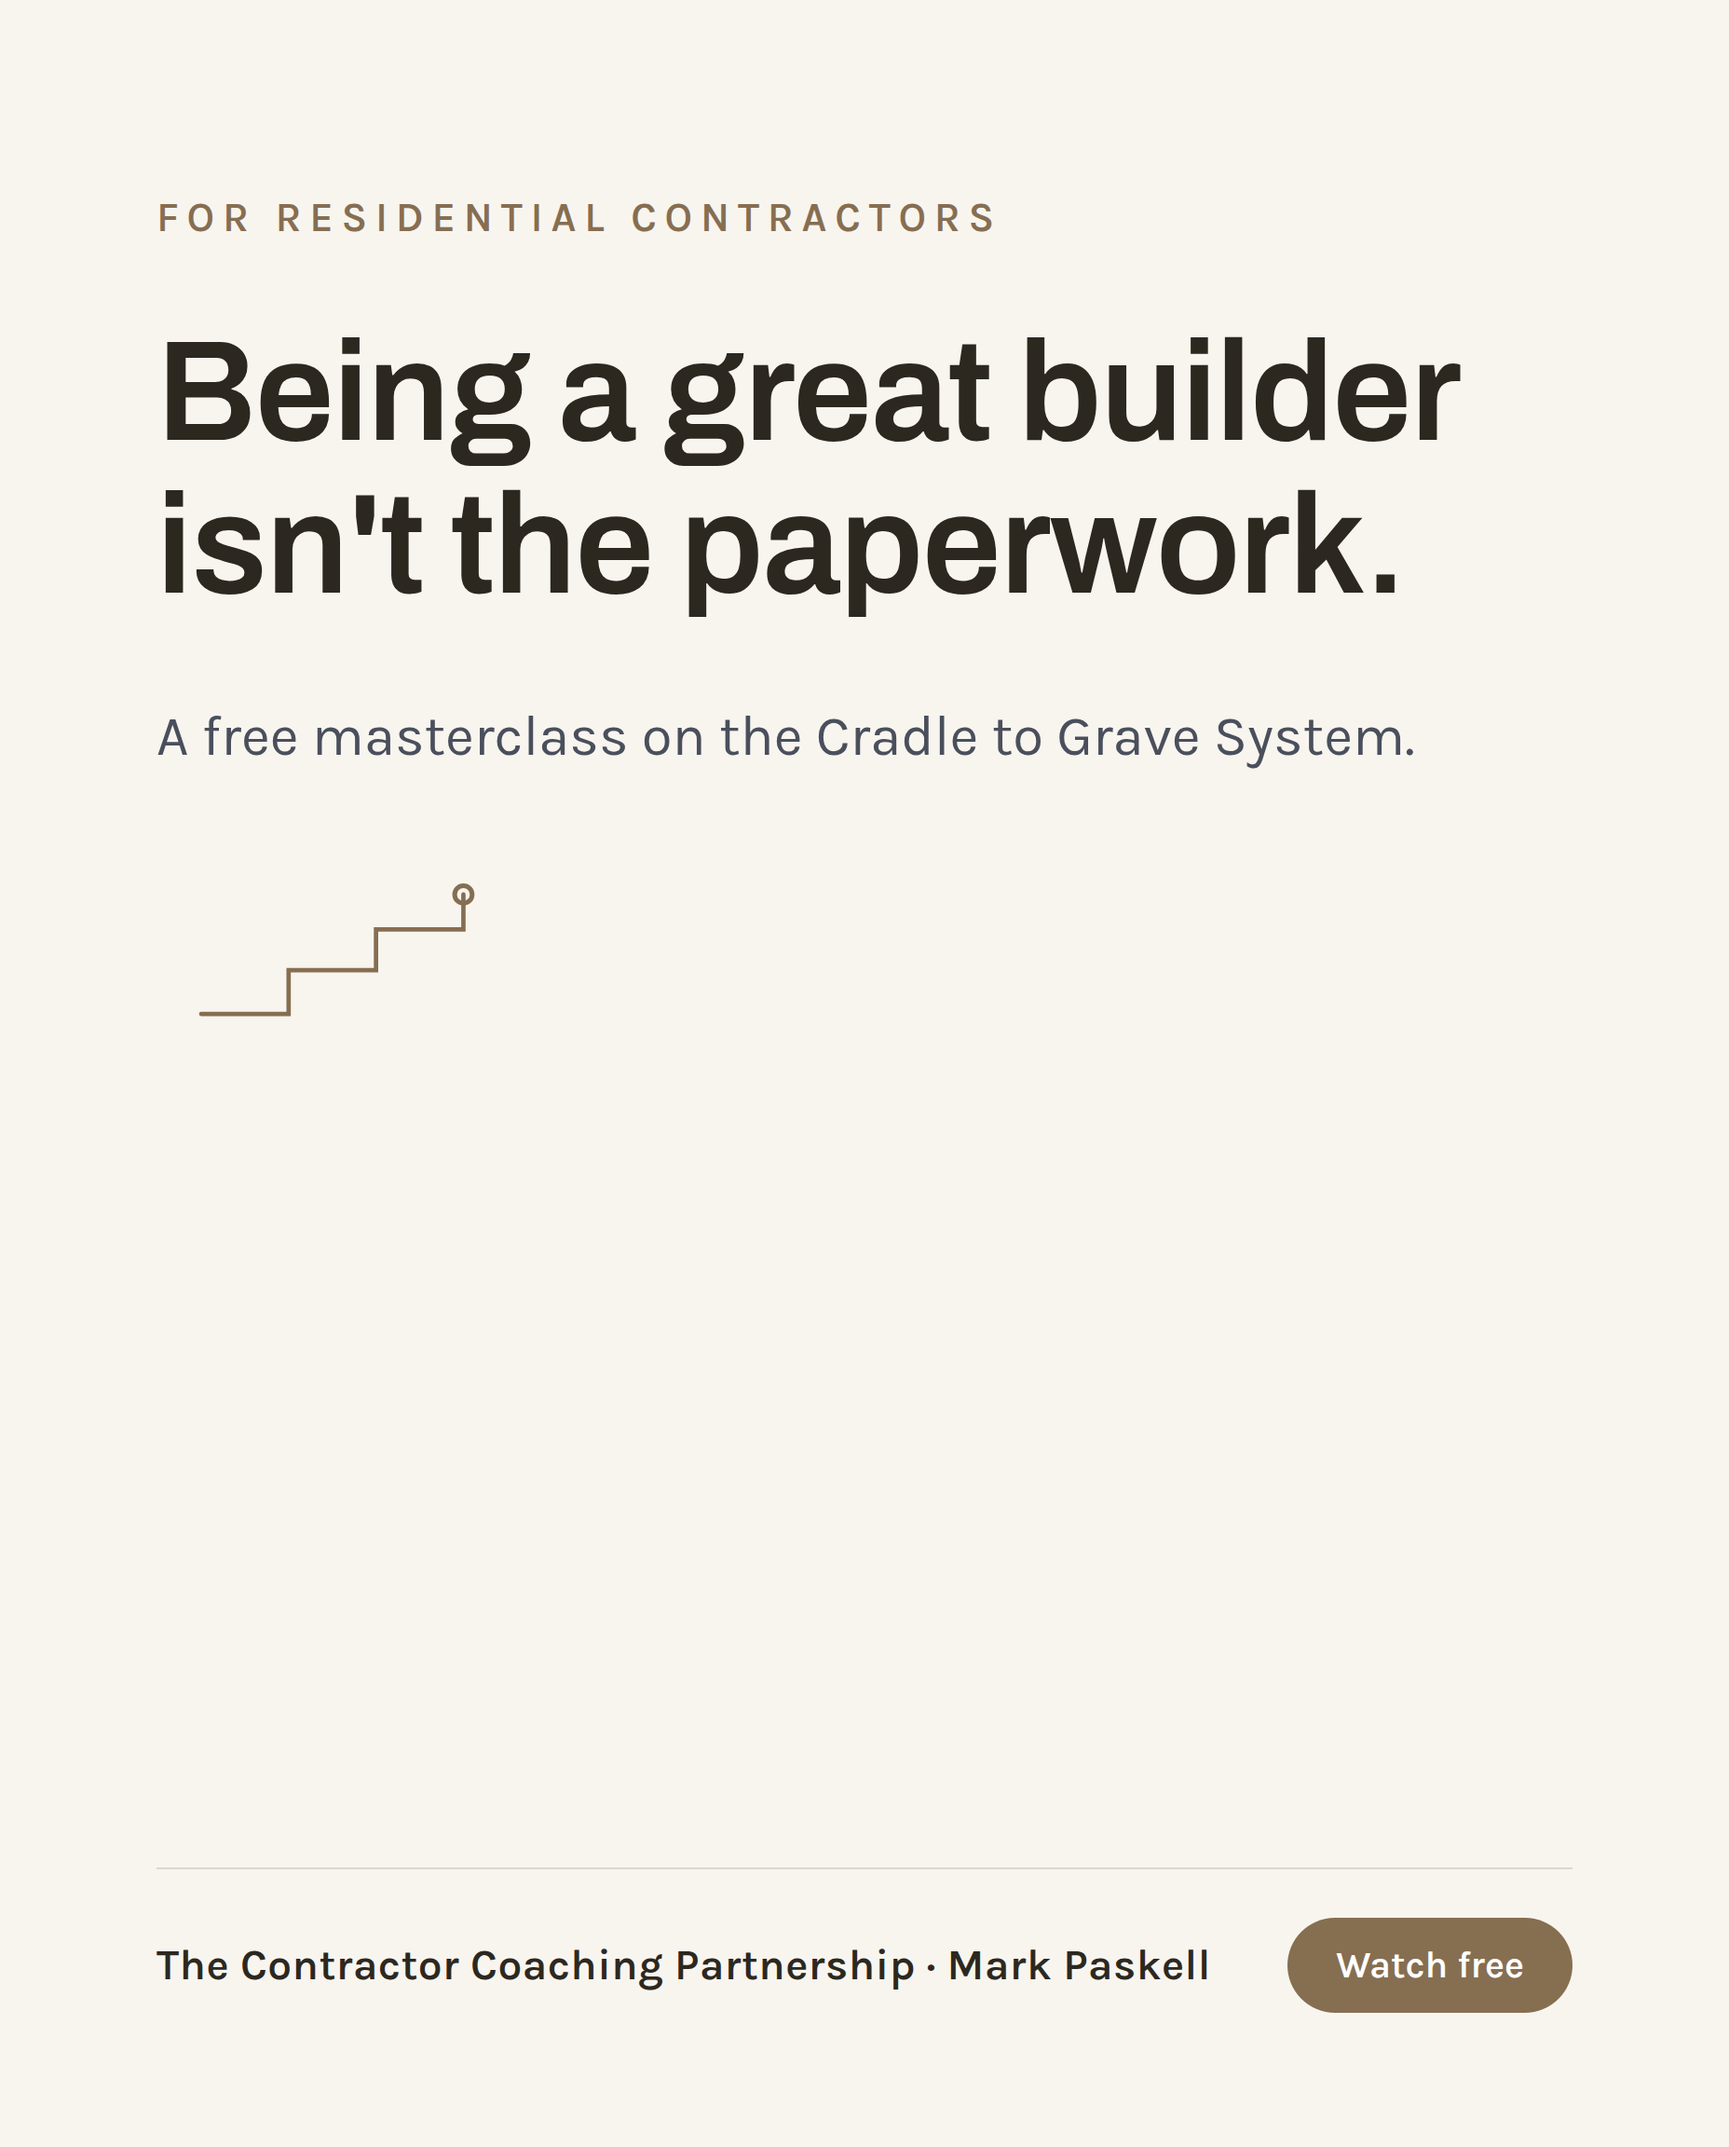
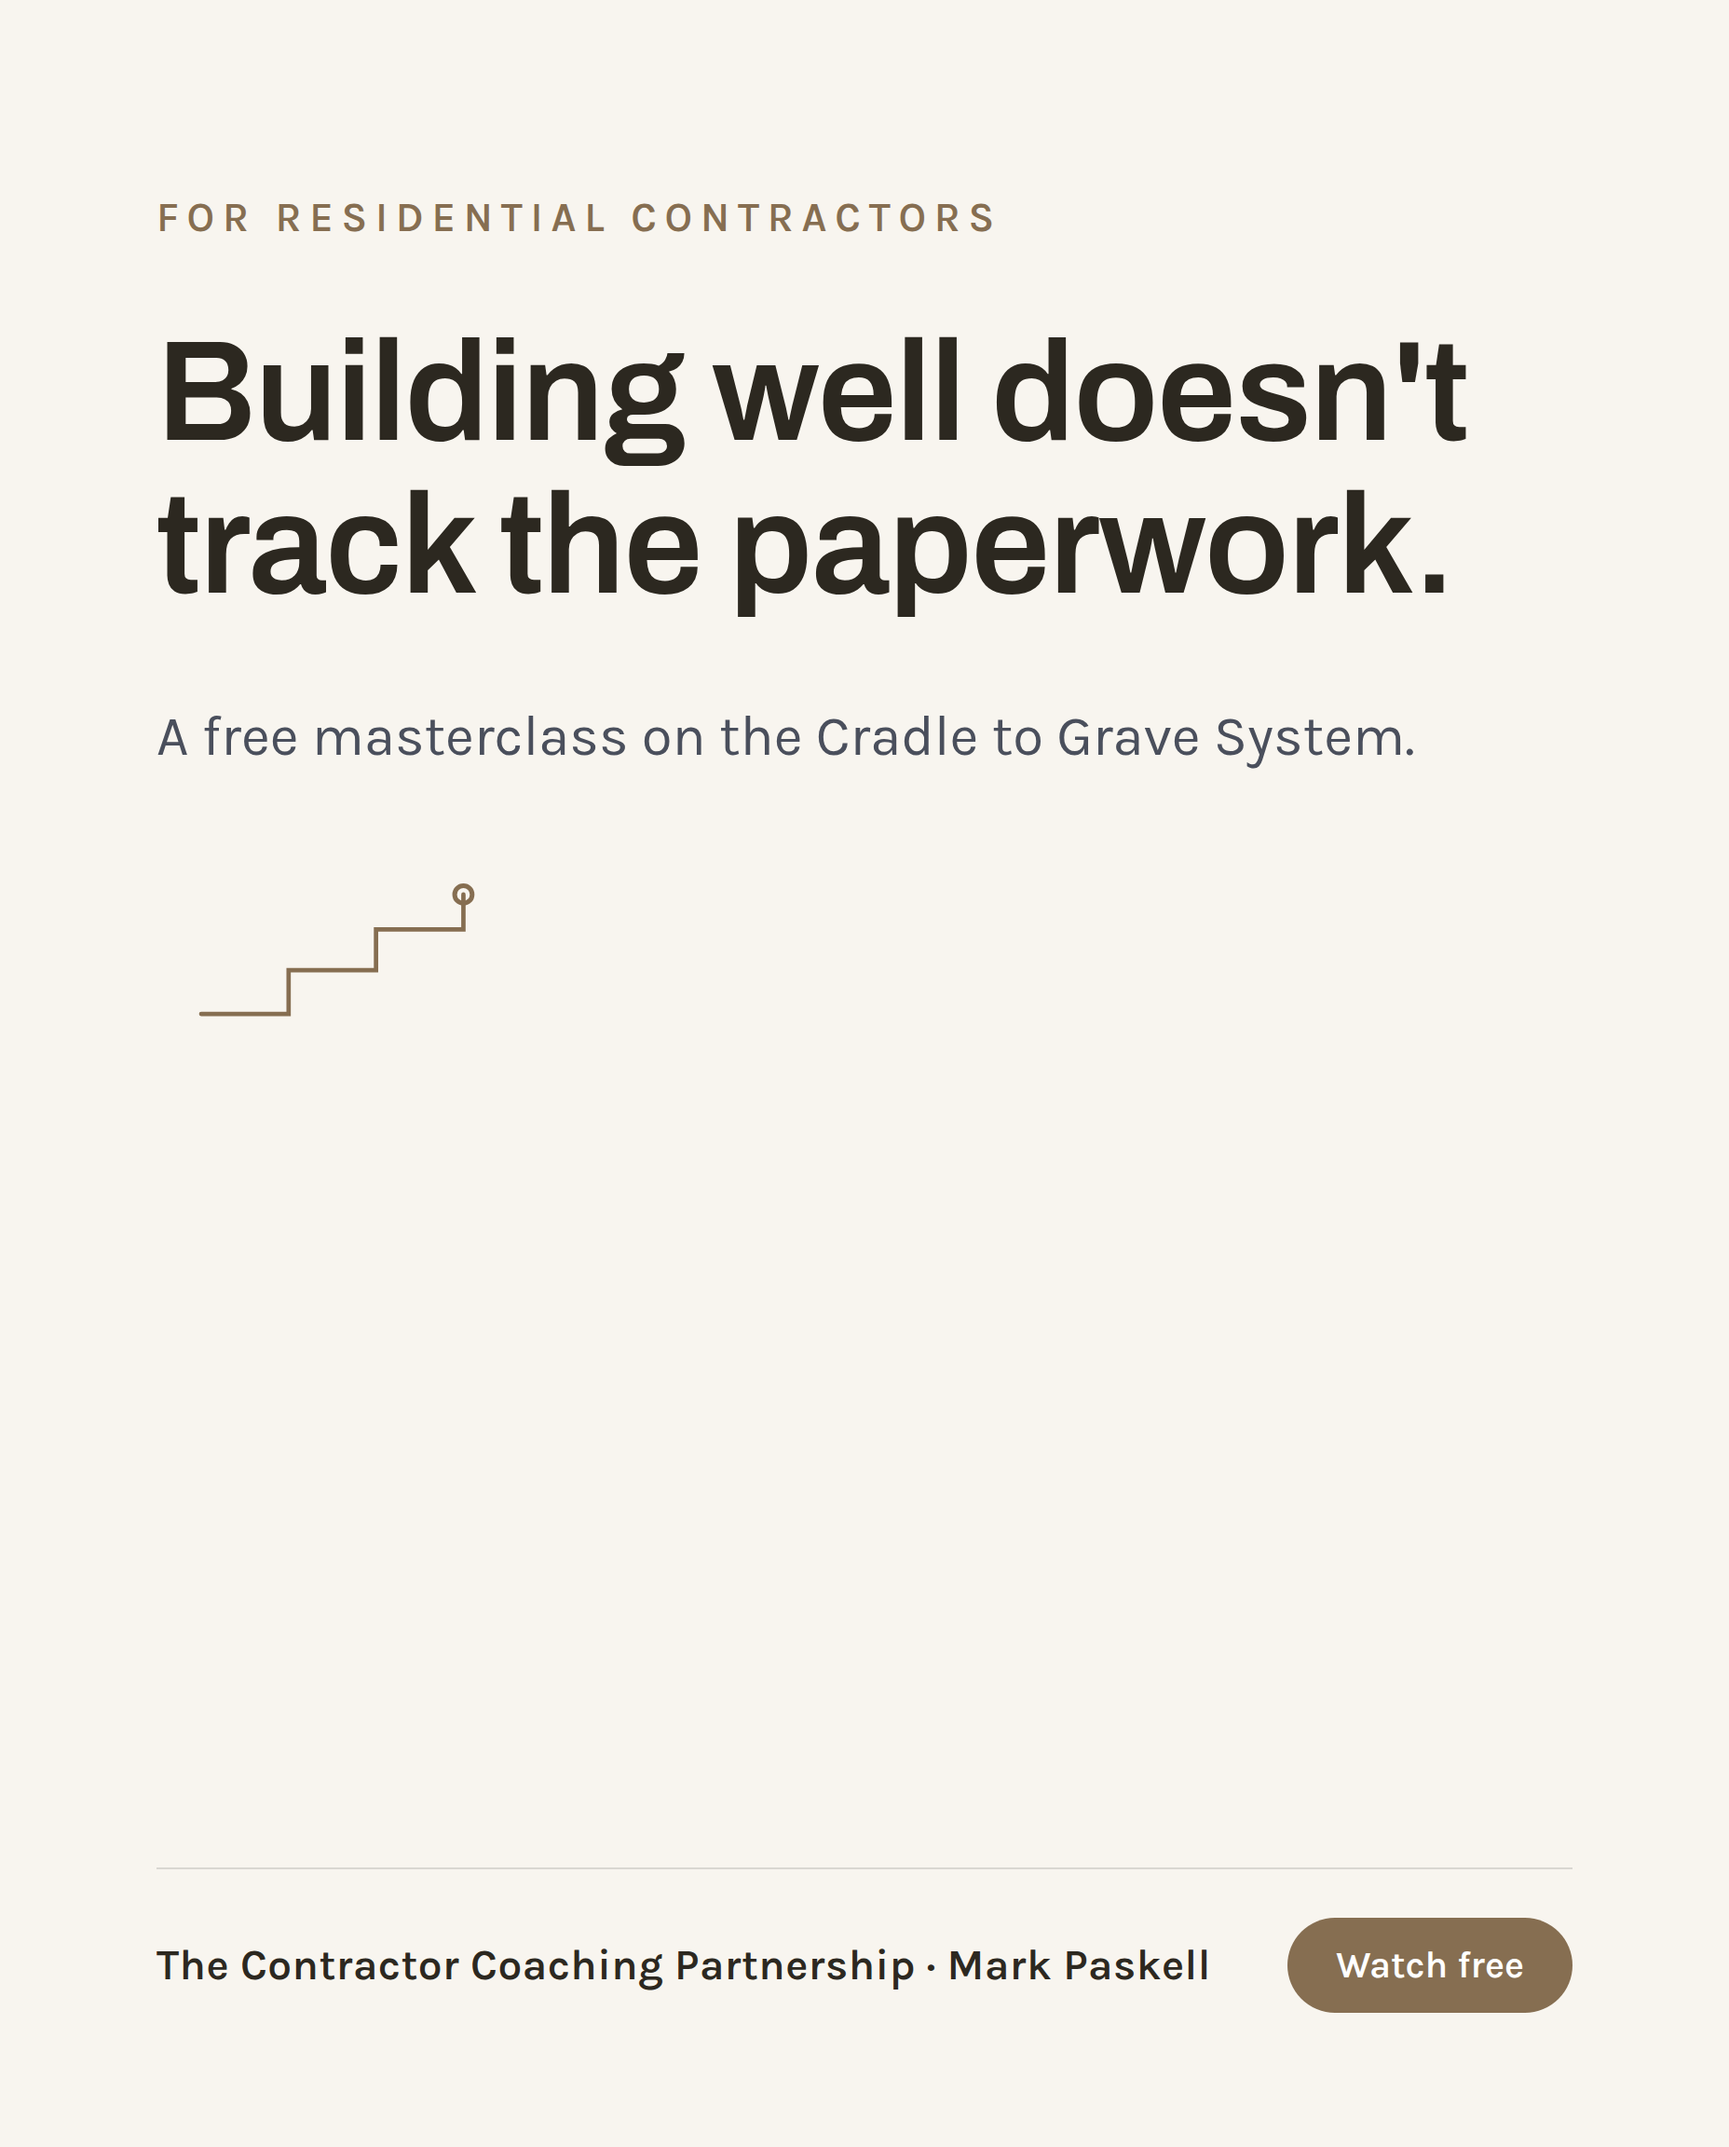
showcase: mark-paskell

Changed region(s): [[0.0938, 0.1562, 0.8438, 0.2812]]

diff --git a/mark-paskell/deck.html b/mark-paskell/deck.html
@@ -109,7 +109,7 @@ const S = [
 
  {t:'section',idx:'Your Next Step',title:'Run Every Job Cradle to Grave'},
  {t:'normal',k:'Start with the consultation',title:'The free coaching consultation.',body:'A no-obligation conversation about where your paperwork stands today and what the Cradle to Grave System would look like applied to your jobs.'},
- {t:'normal',k:'Go deeper',title:'The Lead Carpenter System and Design/Build Sales Training.',body:'Workshops co-taught with Shawn McCadden on production leadership, plus his Design/Build Sales Training for the front end of the handoff.'},
+ {t:'normal',k:'Go deeper',title:'The Lead Carpenter System and Design/Build Sales Training.',body:'The Lead Carpenter System, workshops on production leadership co-taught with Shawn McCadden, plus Mark\'s own Design/Build Sales Training for the front end of the handoff.'},
  {t:'cta',title:'Ready to run every job cradle to grave?',chips:['Take the free consultation','See the workshop calendar'],disc:'Educational content for residential contracting and remodeling business owners. No income, growth, or result is guaranteed. Results vary by business, market, and effort.'},
 ];
 

diff --git a/mark-paskell/index.html b/mark-paskell/index.html
@@ -83,7 +83,7 @@
     <h2>Four directions in your own colors</h2>
     <p>Built from the Cradle to Grave System, written to stop a contractor mid-scroll.</p>
     <div class="ad-grid">
-      <img src="/mark-paskell/ad01.png" alt="Ad: Being a great builder isn't the paperwork">
+      <img src="/mark-paskell/ad01.png" alt="Ad: Building well doesn't track the paperwork">
       <img src="/mark-paskell/ad02.png" alt="Ad: Ten phases. One system. Cradle to Grave">
       <img src="/mark-paskell/ad03.png" alt="Ad: Stop losing margin at the handoff">
       <img src="/mark-paskell/ad04.png" alt="Ad: What the Cradle to Grave System teaches">
